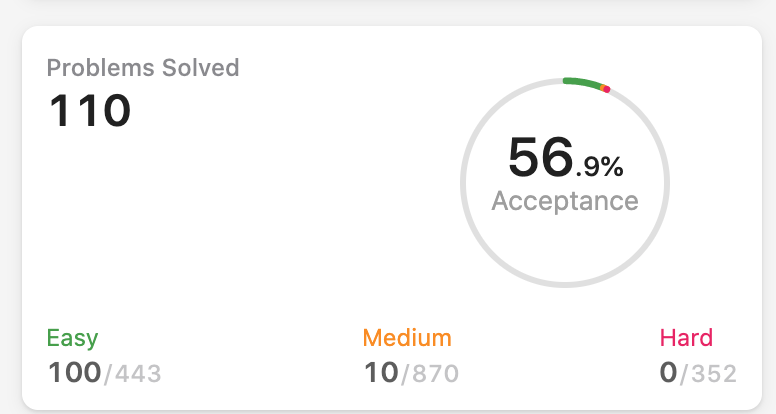
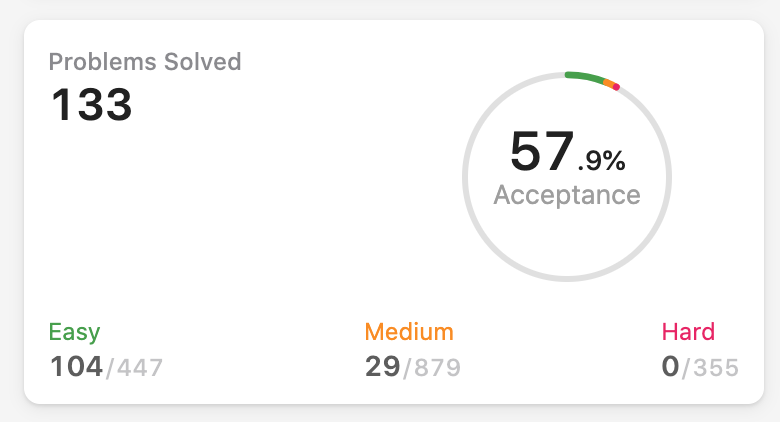
133

diff --git a/README.md b/README.md
@@ -1,7 +1,9 @@
 //Ngan Kim Khong's algos.
 
-Process: 33. Search in Rotated Sorted Array
+Process: 371. Sum of Two Integers Nevermind I skip binary
+
 in: https://leetcode.com/discuss/general-discussion/460599/blind-75-leetcode-questions
+Process: 322. Coin Change
 
 150 most common:
 https://learntocodetogether.com/top-150-leetcodes-best-practice-problems/
